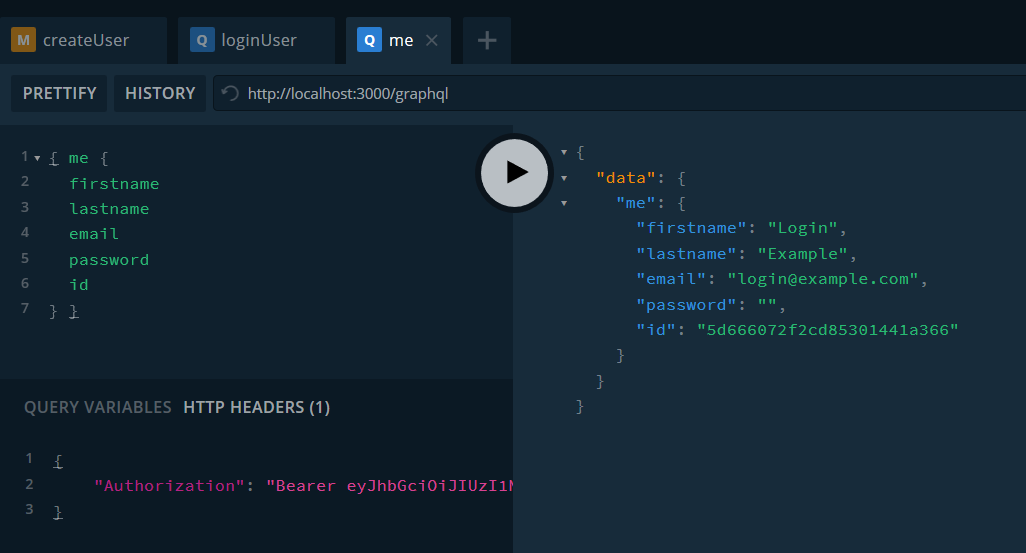
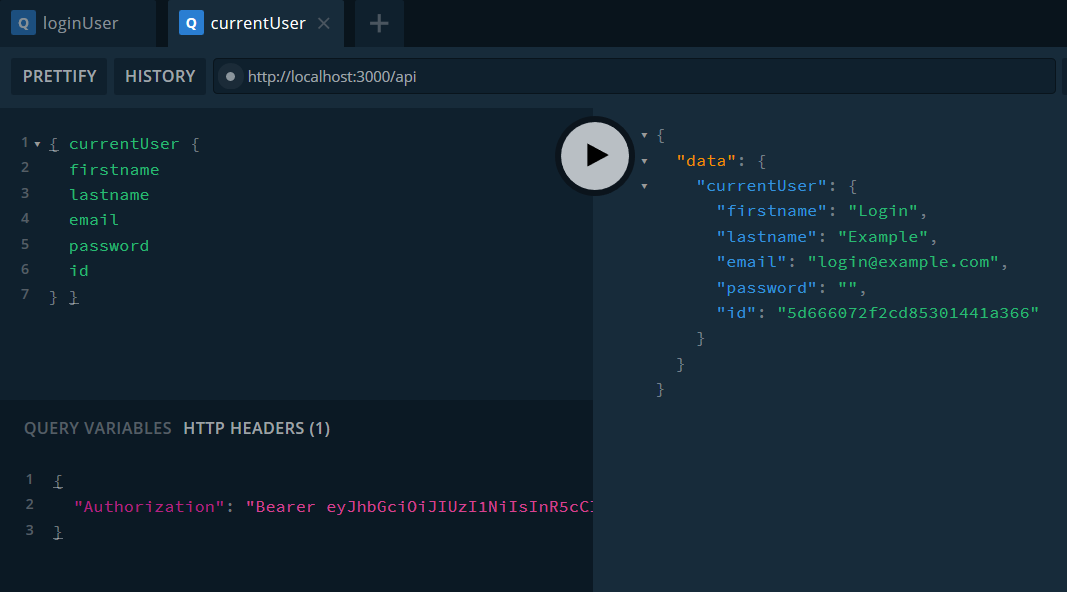
update  part 1

diff --git a/content/post/2019-08-29-build-an-apollo-graphql-user-authentication-for-your-react-app-part-1.md b/content/post/2019-08-29-build-an-apollo-graphql-user-authentication-for-your-react-app-part-1.md
@@ -56,16 +56,16 @@ Next follows the user type.
 
 ```txt
 type User {
-	id: String!
-	email: String!
-	password: String!
-	firstname: String!
-	lastname: String!
+  id: String!
+  email: String!
+  password: String!
+  firstname: String!
+  lastname: String!
 
-	created: Date
-	created_by: String!
-	updated: Date
-	updated_by: String!
+  created: Date
+  created_by: String!
+  updated: Date
+  updated_by: String!
 }
 ```
 
@@ -73,12 +73,12 @@ Then the token and default response.
 
 ```txt
 type Token {
-	token: String!
+  token: String!
 }
 
 type Response {
-    success: Boolean!
-    message: String
+  success: Boolean!
+  message: String
 }
 ```
 
@@ -86,9 +86,9 @@ Queries are restricted by the custom directive.
 
 ```txt
 type Query {
-	me: User @isAuthenticated
-	users: [User] @isAuthenticated
-	loginUser(email: String!, password: String!): Token
+  currentUser: User @isAuthenticated
+  users: [User] @isAuthenticated
+  loginUser(email: String!, password: String!): Token
 }
 ```
 
@@ -96,9 +96,9 @@ And here are the mutation we need to actually create and manipulate a user.
 
 ```txt
 type Mutation {
-	createUser(email: String!, password: String!, firstname: String!, lastname: String!): User
-	updateUser(id: String!, email: String, password: String, firstname: String, lastname: String): Response
-	deleteUser(id: String!): Response
+  createUser(email: String!, password: String!, firstname: String!, lastname: String!): User
+  updateUser(id: String!, email: String, password: String, firstname: String, lastname: String): Response
+  deleteUser(id: String!): Response
 }
 `
 
@@ -118,85 +118,79 @@ const { GraphQLScalarType } = require('graphql')
 const { AuthenticationError, ForbiddenError } = require('apollo-server-micro')
 const bcrypt = require('bcrypt')
 const jwt = require('jsonwebtoken')
+const { Kind } = require('graphql/language')
 
 // Hash configuration
 const BCRYPT_ROUNDS = 12
 
 // Resolve GraphQL queries, mutations and graph paths
 const resolvers = {
-	Query: {
-		users: async (obj, args, context) => {
-     		let user // -> Access data layer and get user data
-			return user
-		},
-		me: async (obj, args, context) => {
-    		let user // -> Access data layer and get user data
-			return user
-		},
-		loginUser: async (obj, args, context) => {
+  Query: {
+    users: async (obj, args, context) => {
+      const user // -> Access data layer and get user data
+      return user
+    },
+    currentUser: async (obj, args, context) => {
+      const user // -> Access data layer and get user data
+      return user
+    },
+    loginUser: async (obj, args, context) => {
+      // Find user by email and password
+      const user // -> Access data layer and get user data
 
-			// Find user by email and password
-			let user // -> Access data layer and get user data
+      // Compare hash
+      if(user && await bcrypt.compare(args.password, user.password)) {
+        // Generate and return JWT token
+        const token = jwt.sign({ email: user.email, name: (user.firstname + ' ' + user.lastname) }, process.env.JWT_SECRET )
+        return { token: token }
+      } else {
+        // Throw authentication error
+        throw new AuthenticationError('Login failed.')
+      }
+    }
+  },
+  Mutation: {
+    createUser: async (obj, args, context) => {
+      // Check if user already exists
+      const user // -> Access data layer and get user data
+      if (user) {
+        throw new ForbiddenError('User already exists.')
+      }
 
-			// Compare hash
-			if(user && await bcrypt.compare(args.password, user.password)) {
+      // Hash password
+      args.password = await bcrypt.hash(args.password, BCRYPT_ROUNDS)
+      args.created = new Date()
+      args.created_by = context.name || "system"
+      const user // -> Access data layer and store user data
+      return user
+    },
+    updateUser: async (obj, args, context) => {
+      args.updated = new Date()
+      args.updated_by = context.name || "system"
 
-				// Generate and return JWT token
-				const token = jwt.sign({ email: user.email, name: (user.firstname + ' ' + user.lastname) }, process.env.JWT_SECRET )
-				return { token: token }
+      // Hash password if provided
+      if(args.password){
+        args.password = await bcrypt.hash(args.password, BCRYPT_ROUNDS)
+      }
 
-			} else {
-				
-				// Throw authentication error
-				throw new AuthenticationError('Login failed.')
-			}
-		}
-	},
-	Mutation: {
-		createUser: async (obj, args, context) => {
-
-			// Check if user already exists
-			let user // -> Access data layer and get user data
-			if (user) {
-				throw new ForbiddenError('User already exists.')
-			}
-
-			// Hash password
-      		args.password = await bcrypt.hash(args.password, BCRYPT_ROUNDS)
-      
-			args.created = new Date()
-     		args.created_by = context.name || "system"
-      		let user // -> Access data layer and store user data
-			return user
-		},
-		updateUser: async (obj, args, context) => {
-			args.updated = new Date()
-			args.updated_by = context.name || "system"
-
-			// Hash password if provided
-			if(args.password){
-				args.password = await bcrypt.hash(args.password, BCRYPT_ROUNDS)
-			}
-
-     		 // -> Access data layer and update user data
-			return { 
-       			success: true
-      		}
-		},
-		deleteUser: async (obj, args, context) => {
-     		// -> Access data layer and delete user data
-			return { 
-        		success: true
-     		}
-		}
-	},
-	User: {
-
-		// Hide password hash
-		password() {
-			return ''
-		}
-	}
+      // -> Access data layer and update user data
+      return { 
+        success: true
+      }
+    },
+    deleteUser: async (obj, args, context) => {
+      // -> Access data layer and delete user data
+      return { 
+        success: true
+      }
+    }
+  },
+  User: {
+    // Hide password hash
+    password() {
+      return ''
+    }
+  }
 }
 
 module.exports = resolvers
@@ -217,23 +211,24 @@ const { AuthenticationError } = require('apollo-server-micro')
 const jwt = require('jsonwebtoken')
 
 const context = ({ req }) => {
+  // Get the user token from the headers
+  let token = req.headers.authorization ? req.headers.authorization.split(' ')[1] : null
 
-    // Get the user token from the headers
-    let token = req.headers.authorization ? req.headers.authorization.split(' ')[1] : null
-
-    // Verify token if available
-    if (token) {
-        try {
-            token = jwt.verify(token, process.env.JWT_SECRET)
-        } catch (error) {
-            throw new AuthenticationError('Authentication token is invalid, please log in.')
-        }
+  // Verify token if available
+  if (token) {
+    try {
+      token = jwt.verify(token, process.env.JWT_SECRET)
+    } catch (error) {
+      throw new AuthenticationError(
+        'Authentication token is invalid, please log in.'
+      )
     }
+  }
 
-    return {
-        email: token ? token.email : null,
-        name: token ? token.name : null
-    }
+  return {
+    email: token ? token.email : null,
+    name: token ? token.name : null
+  }
 }
 
 module.exports = context
@@ -251,24 +246,21 @@ const { defaultFieldResolver } = require('graphql')
 
 // Custom directive to check if user is authenicated
 class isAuthenticated extends SchemaDirectiveVisitor {
+  // Field definition directive
+  visitFieldDefinition (field) {
+    // Get field resolver
+    const { resolve = defaultFieldResolver } = field
 
-    // Field definition directive
-    visitFieldDefinition(field) {
+    field.resolve = async function (...args) {
+      // Check if user email is in context
+      if (!args[2].email) {
+        throw new ForbiddenError('You are not authorized for this ressource.')
+      }
 
-        // Get field resolver
-        const { resolve = defaultFieldResolver } = field
-
-        field.resolve = async function(...args) {
-
-            // Check if user email is in context
-            if (!args[2].email) {
-                throw new ForbiddenError('You are not authorized for this ressource.')
-            }
-            
-            // Resolve field
-            return await resolve.apply(this, args)
-        }
+      // Resolve field
+      return resolve.apply(this, args)
     }
+  }
 }
 
 module.exports = { isAuthenticated: isAuthenticated }
@@ -290,27 +282,26 @@ const directives = require('./directives')
 
 // Initialize Apollo server
 const server = new ApolloServer({
-	typeDefs,
-	resolvers,
-	context: context,
-	introspection: true,
-	playground: true,
-	schemaDirectives: directives
+  typeDefs,
+  resolvers,
+  context: context,
+  introspection: true,
+  playground: true,
+  schemaDirectives: directives
 })
 
 // Export server as handler
 module.exports = cors((req, res) => {
-
-  // Workaround abort on Options method 
+  // Workaround abort on Options method
   if (req.method === 'OPTIONS') {
     res.end()
     return
   }
-  return server.createHandler({ path: '/graphql' })(req, res)
+  return server.createHandler({ path: '/api' })(req, res)
 })
 ```
 
-To those who noticed that I import `apollo-server-micro` instead of `apollo-micro`, it is because I am deploying my apps as serverless functions with [Zeit Now](https://zeit.co/home) using their [HTTP microservice](https://github.com/zeit/micro).
+To those who noticed that I import `apollo-server-micro` instead of `apollo-server`, it is because I am deploying my apps as serverless functions with [Zeit Now](https://zeit.co/home) using their [HTTP microservice](https://github.com/zeit/micro).
 
 ## Test
 
@@ -347,7 +338,7 @@ Copy the token in to the HTTP header field.
 Query the user info.
 
 ```txt
-{ me {
+{ currentUser {
   firstname
   lastname
   email
@@ -377,3 +368,7 @@ In order to provide a full user accounting module of course more queries are req
 * resetUserPassword: Query to initiate password reset.
 
 If you have any questions, feel free to ask below 👋.
+
+## Updates
+
+*2019/08/30:* Updated all code snippets after applying JavaScript Standard Style guide. Removed unnecessary await statements.
